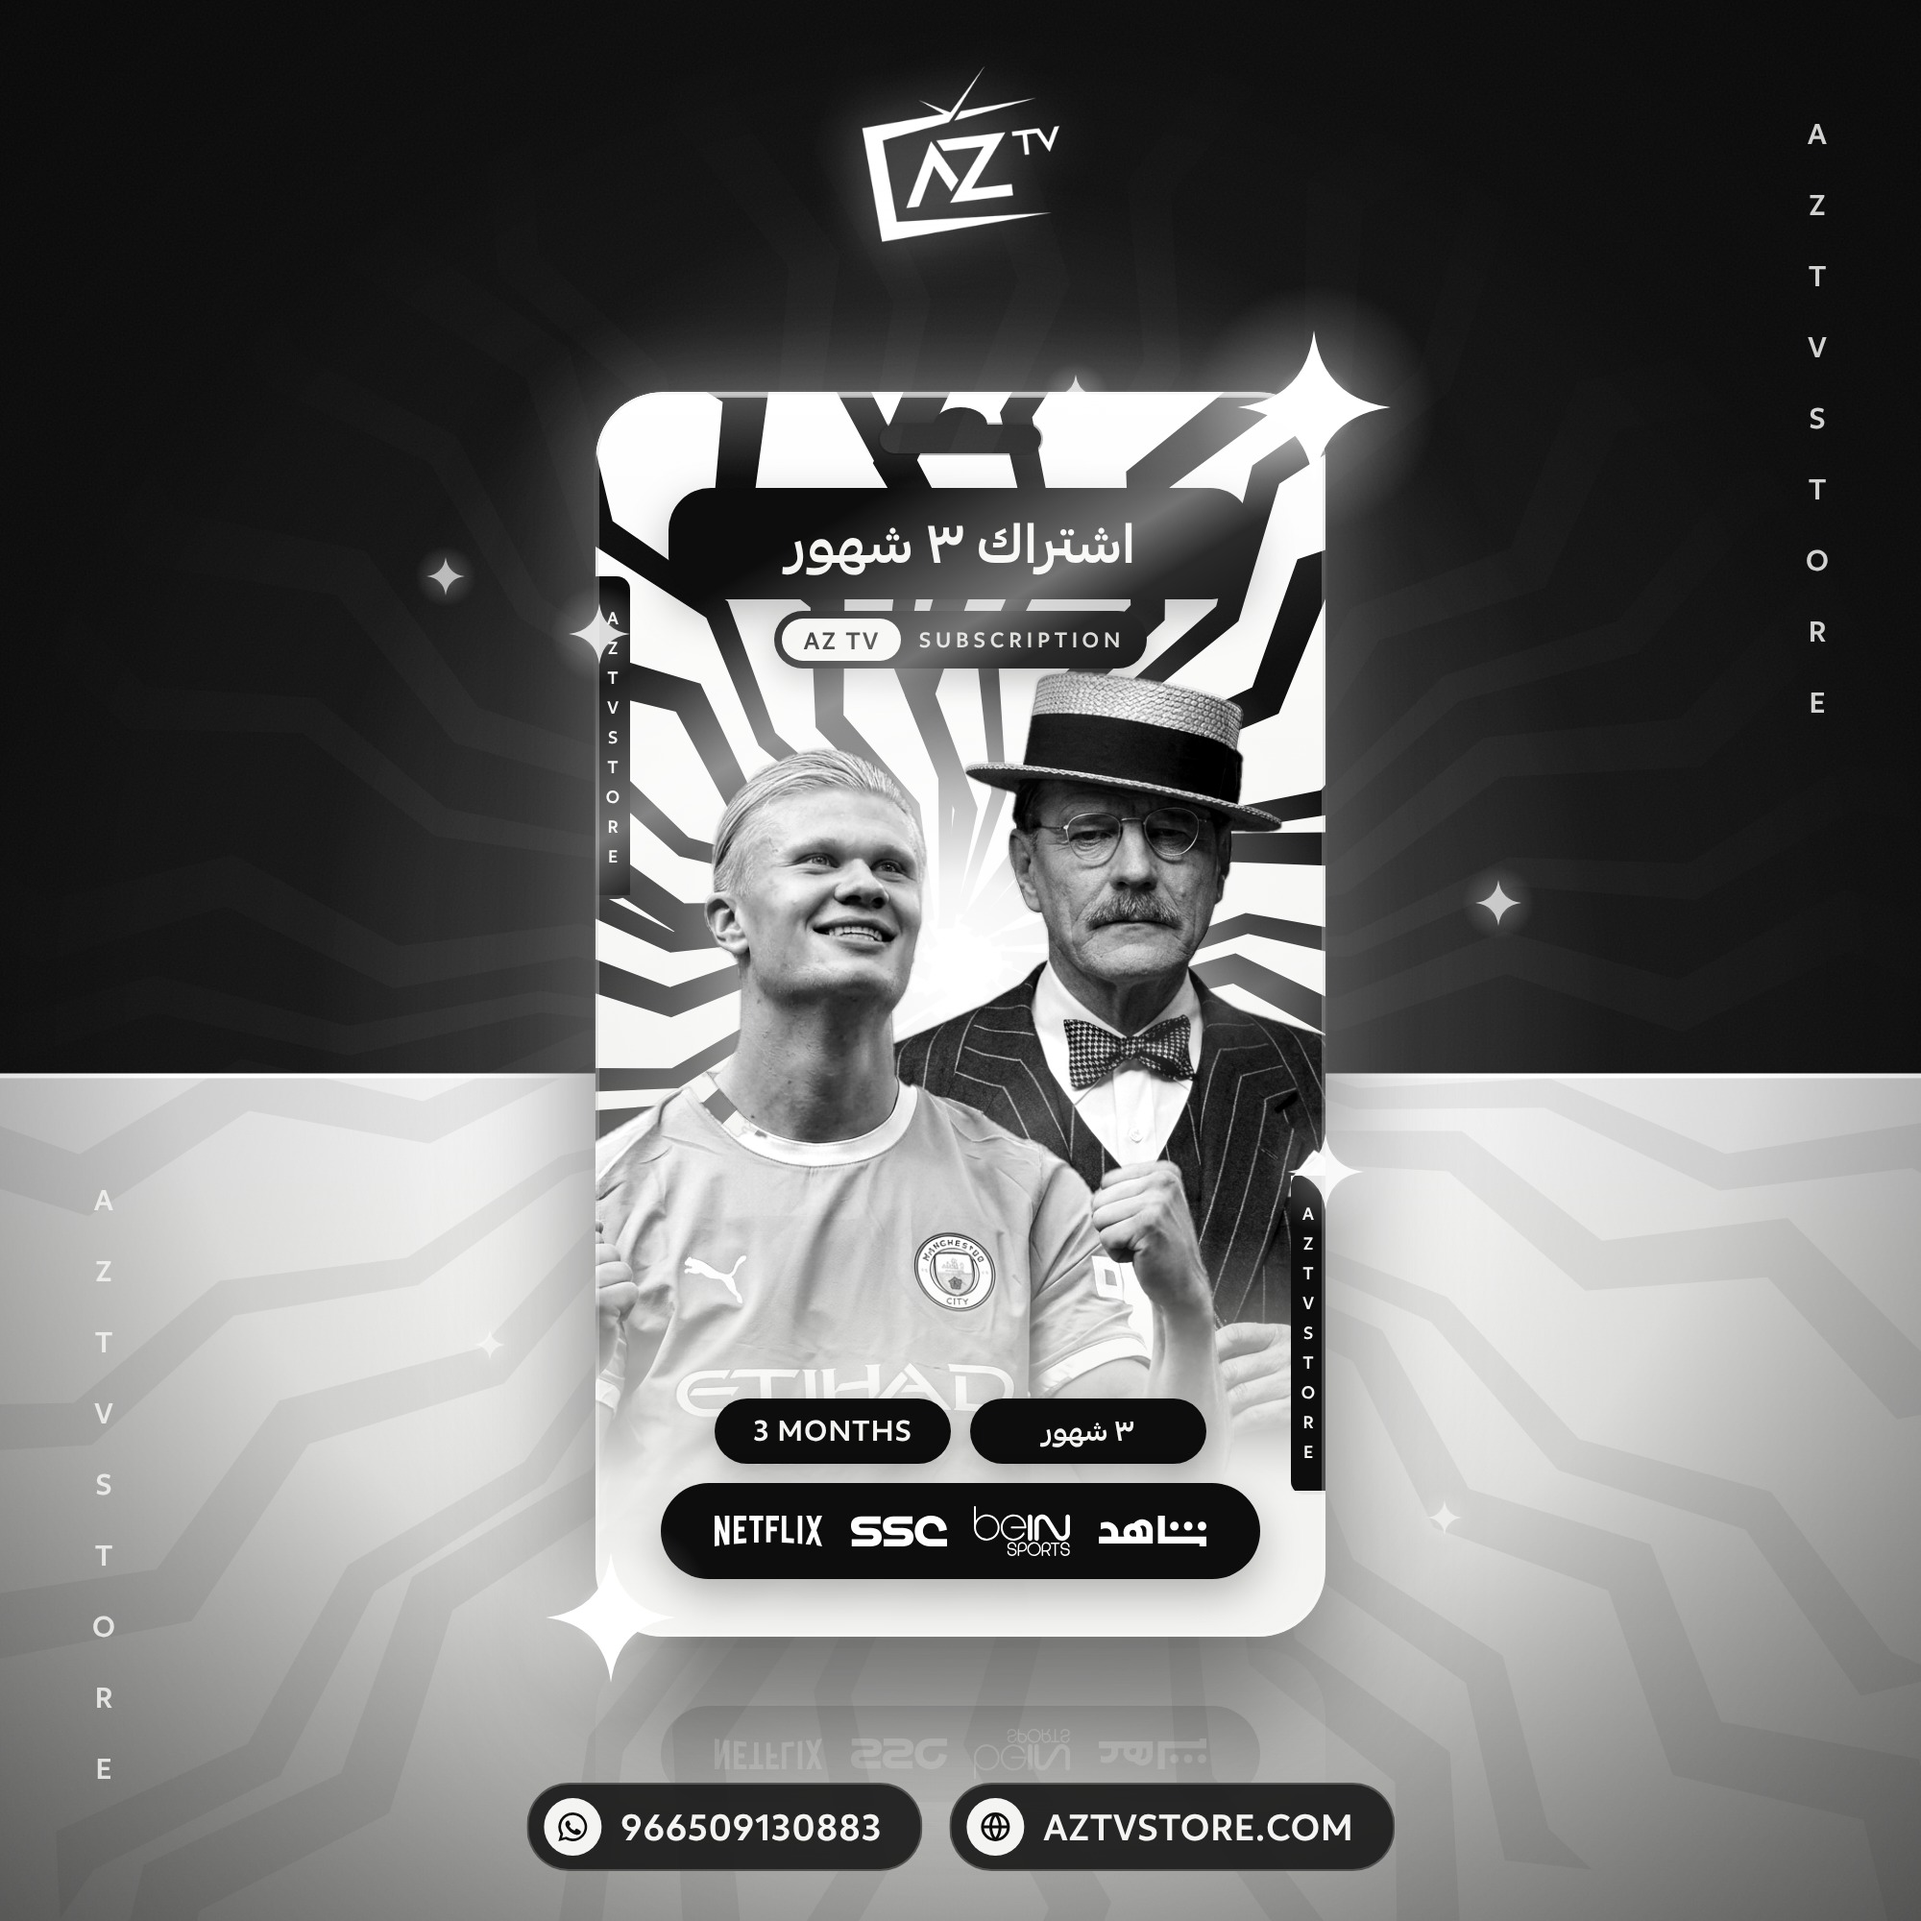
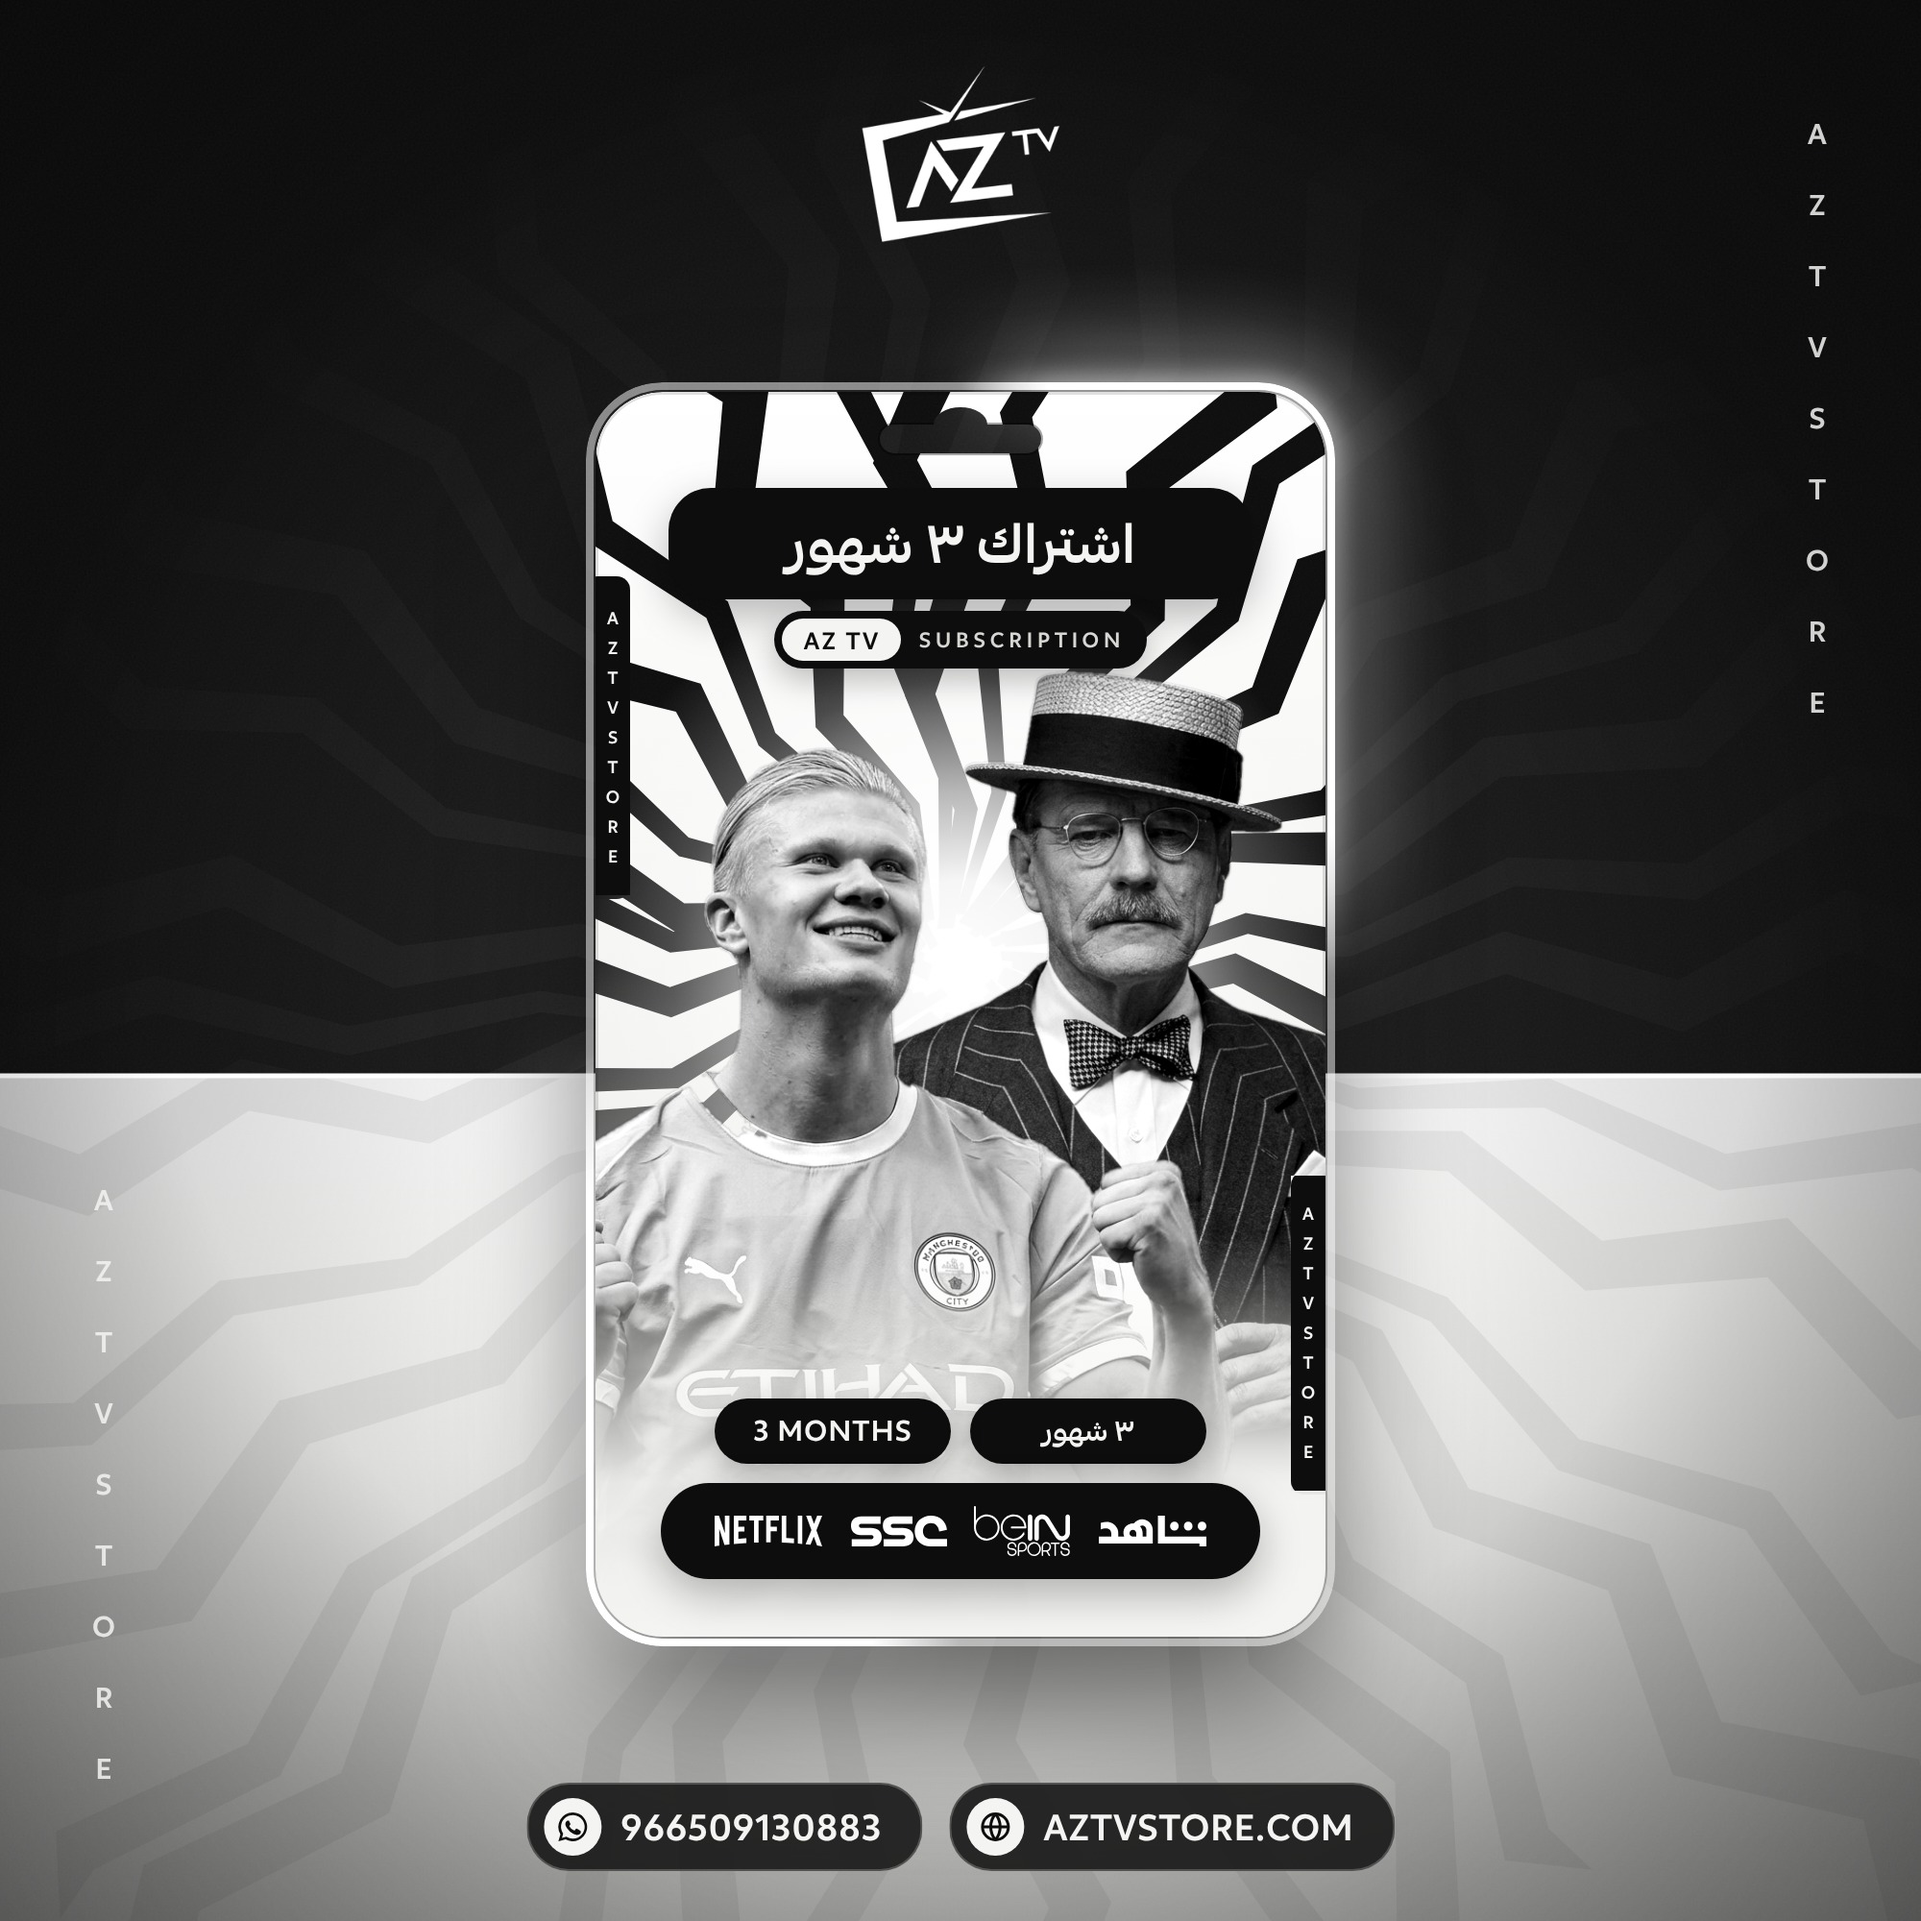
Product image shine, round 2: lit rim and light streaks on the card edges only, trial on two images
Claude-Session: https://claude.ai/code/session_01D8XCbG6TVkErSujRZYkAkh

Changed region(s): [[0.248, 0.031, 0.744, 0.868], [0.744, 0.434, 0.806, 0.496], [0.217, 0.279, 0.248, 0.31]]

diff --git a/05-design/shared/subscription-backgrounds/backgrounds.html b/05-design/shared/subscription-backgrounds/backgrounds.html
@@ -11,7 +11,7 @@
   The card sits in the reserved area (x 310-690, y 204-852 on the 1000 x 1000 canvas): same proportions as the old cards,
   a little smaller than in the old images, so the existing card files still drop straight in.
 
-  URL options:  ?opt=b|e|f (f: like e with a straight horizontal split, 2026-10-25)  &tier=regular|plus  &guide=1 (show the card area)  &card=path/to/card.png (mock-up)  &shine=1 (halo, gloss, reflection, glints)
+  URL options:  ?opt=b|e|f (f: like e with a straight horizontal split, 2026-10-25)  &tier=regular|plus  &guide=1 (show the card area)  &card=path/to/card.png (mock-up)  &shine=1 (lit rim and light streaks on the card's edges)
   Export:       node render.cjs  (writes export/ and mockups/)
 -->
 <style>
@@ -83,25 +83,25 @@
   .card img { width: 100%; height: 100%; object-fit: cover; display: block; }
   .has-card .card { display: block; }
 
-  /* &shine=1 (client: "more shining", 2026-10-27): halo behind the card, gloss sweep and rim light on the card,
-     a soft reflection under it, glints on the corners, glowing logo and 4K badge */
-  .halo, .reflect, .glints, .card .sheen { display: none; }
-  .shine.has-card .halo, .shine.has-card .reflect, .shine.has-card .glints, .shine .card .sheen { display: block; }
-  .halo { position: absolute; left: 160px; top: 90px; width: 680px; height: 880px; border-radius: 50%; pointer-events: none;
-    background: radial-gradient(closest-side, rgba(var(--glow), .5), rgba(var(--glow), .2) 45%, rgba(var(--glow), 0) 100%); filter: blur(10px); }
-  .shine .card { box-shadow: 0 40px 70px rgba(0, 0, 0, .55), 0 0 46px rgba(var(--glow), .45), 0 0 0 1px rgba(255, 255, 255, .06); }
-  .card .sheen { position: absolute; inset: 0; width: 100%; height: 100%; pointer-events: none; mix-blend-mode: screen; }
-  .card .rim { position: absolute; inset: 0; border-radius: 35px; pointer-events: none; display: none;
-    box-shadow: inset 0 0 0 2px rgba(255,255,255,.28), inset 0 3px 0 rgba(255,255,255,.55); }
-  .shine .card .rim { display: block; }
-  .reflect { position: absolute; left: 310px; top: 858px; width: 380px; height: 648px; border-radius: 35px; overflow: hidden; pointer-events: none;
-    transform: scaleY(-1); opacity: .2;
-    -webkit-mask-image: linear-gradient(to top, rgba(0,0,0,.9), rgba(0,0,0,0) 15%); mask-image: linear-gradient(to top, rgba(0,0,0,.9), rgba(0,0,0,0) 15%); }
-  .reflect img { width: 100%; height: 100%; display: block; }
-  .glints { position: absolute; inset: 0; width: 100%; height: 100%; pointer-events: none; }
-  .shine .logo { filter: drop-shadow(0 0 14px rgba(var(--glow), .55)); }
-  .shine .badge { box-shadow: 0 0 26px rgba(var(--glow), .6), inset 0 2px 0 rgba(255,255,255,.6);
-    background: linear-gradient(135deg, #FFF0B0, var(--gold) 45%, var(--gold-deep)); }
+  /* &shine=1 (client: "more shining", round 2 2026-10-27: only on the card's edges): a thin lit rim around the card
+     with two bright light streaks running along the border (top right and bottom left), and a tight glow that hugs the edge */
+  .edge { position: absolute; left: 305px; top: 199px; width: 390px; height: 658px; border-radius: 40px; pointer-events: none; display: none;
+    padding: 4px; box-sizing: border-box;
+    --streak: conic-gradient(from 0deg at 50% 50%,
+      var(--base) 0deg, var(--mid) 8deg, #fff 26deg, #fff 44deg, var(--mid) 64deg, var(--base) 84deg,
+      var(--base) 180deg, var(--mid) 188deg, #fff 206deg, #fff 224deg, var(--mid) 244deg, var(--base) 264deg, var(--base) 360deg);
+    --base: rgba(var(--glow), .5); --mid: rgb(var(--glow));
+    background: var(--streak);
+    -webkit-mask: linear-gradient(#000 0 0) content-box, linear-gradient(#000 0 0); -webkit-mask-composite: xor;
+    mask: linear-gradient(#000 0 0) content-box exclude, linear-gradient(#000 0 0); }
+  /* glow layers: only the streaks glow, the rest of the rim stays clean */
+  /* glow layers: only the streaks glow, the rest of the rim stays clean (blur on a wrapper, since a mask would cut the blur off) */
+  .glow-wrap { position: absolute; inset: 0; pointer-events: none; }
+  .glow-wrap.blur { filter: blur(7px); }
+  .glow-wrap.blur2 { filter: blur(24px); opacity: .95; }
+  .glow-wrap .edge { --base: rgba(var(--glow), 0); padding: 8px; }
+  .glow-wrap.blur2 .edge { padding: 16px; left: 297px; top: 191px; width: 406px; height: 674px; border-radius: 48px; }
+  .shine.has-card .edge { display: block; }
 </style>
 </head>
 <body>
@@ -112,10 +112,9 @@
   <div class="side side--l">AZTVSTORE</div>
   <div class="badge">4K</div>
   <div class="guide"></div>
-  <div class="halo"></div>
-  <div class="reflect"><img id="reflectImg" alt=""></div>
-  <div class="card"><img id="cardImg" alt=""><svg class="sheen" id="sheen" viewBox="0 0 380 648" aria-hidden="true"></svg><div class="rim"></div></div>
-  <svg class="glints" id="glints" viewBox="0 0 1000 1000" aria-hidden="true"></svg>
+  <div class="glow-wrap blur2"><div class="edge"></div></div><div class="glow-wrap blur"><div class="edge"></div></div>
+  <div class="card"><img id="cardImg" alt=""></div>
+  <div class="edge"></div>
   <div class="contact">
     <span><i><svg viewBox="0 0 24 24" fill="currentColor"><path d="M12 2a10 10 0 0 0-8.6 15.1L2 22l5-1.3A10 10 0 1 0 12 2zm0 18.2a8.2 8.2 0 0 1-4.2-1.2l-.3-.2-3 .8.8-2.9-.2-.3A8.2 8.2 0 1 1 12 20.2zm4.5-6.1c-.2-.1-1.5-.7-1.7-.8-.2-.1-.4-.1-.6.1l-.8 1c-.1.2-.3.2-.5.1a6.7 6.7 0 0 1-3.3-2.9c-.2-.4.2-.4.7-1.3.1-.2 0-.3 0-.4l-.8-1.8c-.2-.5-.4-.4-.6-.4h-.5a1 1 0 0 0-.7.3 3 3 0 0 0-.9 2.2 5.2 5.2 0 0 0 1.1 2.7 11.8 11.8 0 0 0 4.5 4c1.7.7 2.3.8 3.2.6a2.7 2.7 0 0 0 1.8-1.2 2.2 2.2 0 0 0 .1-1.3c0-.1-.2-.2-.5-.3z"/></svg></i>966509130883</span>
     <span><i><svg viewBox="0 0 24 24" fill="none" stroke="currentColor" stroke-width="2"><circle cx="12" cy="12" r="9"/><path d="M3 12h18M12 3a14 14 0 0 1 0 18M12 3a14 14 0 0 0 0 18"/></svg></i>AZTVSTORE.COM</span>
@@ -132,22 +131,7 @@ bg.dataset.tier = tier;
 bg.dataset.opt = opt;
 document.getElementById("logo").src = tier === "plus" ? "src/logo-gold.png" : "src/logo-white.png";
 if (q.get("guide")) bg.classList.add("show-guide");
-if (q.get("card")) {
-  bg.classList.add("has-card");
-  document.getElementById("cardImg").src = document.getElementById("reflectImg").src = q.get("card");
-  // the gloss only falls on the card itself, not on its transparent corners and hanger slot (SVG alpha mask: a CSS mask-image is blocked for local files)
-  const href = q.get("card").replace(/"/g, "&quot;");
-  document.getElementById("sheen").innerHTML = `<defs>
-    <mask id="cardShape" style="mask-type:alpha" maskUnits="userSpaceOnUse" x="0" y="0" width="380" height="648"><image href="${href}" width="380" height="648" preserveAspectRatio="none"/></mask>
-    <linearGradient id="gloss" x1="0" y1="0" x2="380" y2="648" gradientUnits="userSpaceOnUse">
-      <stop offset=".16" stop-color="#fff" stop-opacity="0"/><stop offset=".27" stop-color="#fff" stop-opacity=".42"/>
-      <stop offset=".31" stop-color="#fff" stop-opacity=".12"/><stop offset=".40" stop-color="#fff" stop-opacity="0"/>
-      <stop offset=".55" stop-color="#fff" stop-opacity="0"/><stop offset=".59" stop-color="#fff" stop-opacity=".16"/>
-      <stop offset=".63" stop-color="#fff" stop-opacity="0"/></linearGradient>
-    <linearGradient id="topLight" x1="0" y1="0" x2="0" y2="648" gradientUnits="userSpaceOnUse">
-      <stop offset="0" stop-color="#fff" stop-opacity=".28"/><stop offset=".07" stop-color="#fff" stop-opacity="0"/></linearGradient></defs>
-    <g mask="url(#cardShape)"><rect width="380" height="648" fill="url(#gloss)"/><rect width="380" height="648" fill="url(#topLight)"/></g>`;
-}
+if (q.get("card")) { bg.classList.add("has-card"); document.getElementById("cardImg").src = q.get("card"); }
 if (q.get("shine")) bg.classList.add("shine");
 
 const plus = tier === "plus";
@@ -249,16 +233,6 @@ if (opt === "e" || opt === "f") {
 art.innerHTML = defs + body;
 bg.style.setProperty("--glow", C.glow);
 
-// glints: four-point stars with a soft glow, on the card's corners and edges and a few around it
-const glint = (x, y, r, o = 1) => `<g transform="translate(${x} ${y})" opacity="${o}">
-  <circle r="${r * 1.6}" fill="url(#glintGlow)"/>
-  <path d="M0 ${-r} Q${r * .11} ${-r * .11} ${r} 0 Q${r * .11} ${r * .11} 0 ${r} Q${-r * .11} ${r * .11} ${-r} 0 Q${-r * .11} ${-r * .11} 0 ${-r}Z" fill="#fff"/>
-  <circle r="${r * .14}" fill="#fff"/></g>`;
-document.getElementById("glints").innerHTML = `<defs><radialGradient id="glintGlow">
-    <stop offset="0" stop-color="rgb(${C.glow})" stop-opacity=".85"/><stop offset=".35" stop-color="rgb(${C.glow})" stop-opacity=".25"/>
-    <stop offset="1" stop-color="rgb(${C.glow})" stop-opacity="0"/></radialGradient></defs>` +
-  glint(684, 212, 40) + glint(318, 842, 34) + glint(312, 330, 16, .85) + glint(690, 610, 20, .9) +
-  glint(232, 300, 10, .7) + glint(780, 470, 12, .75) + glint(255, 700, 8, .6) + glint(752, 790, 9, .6) + glint(560, 206, 11, .8);
 document.fonts.ready.then(() => { document.body.dataset.ready = "1"; });
 </script>
 </body>
